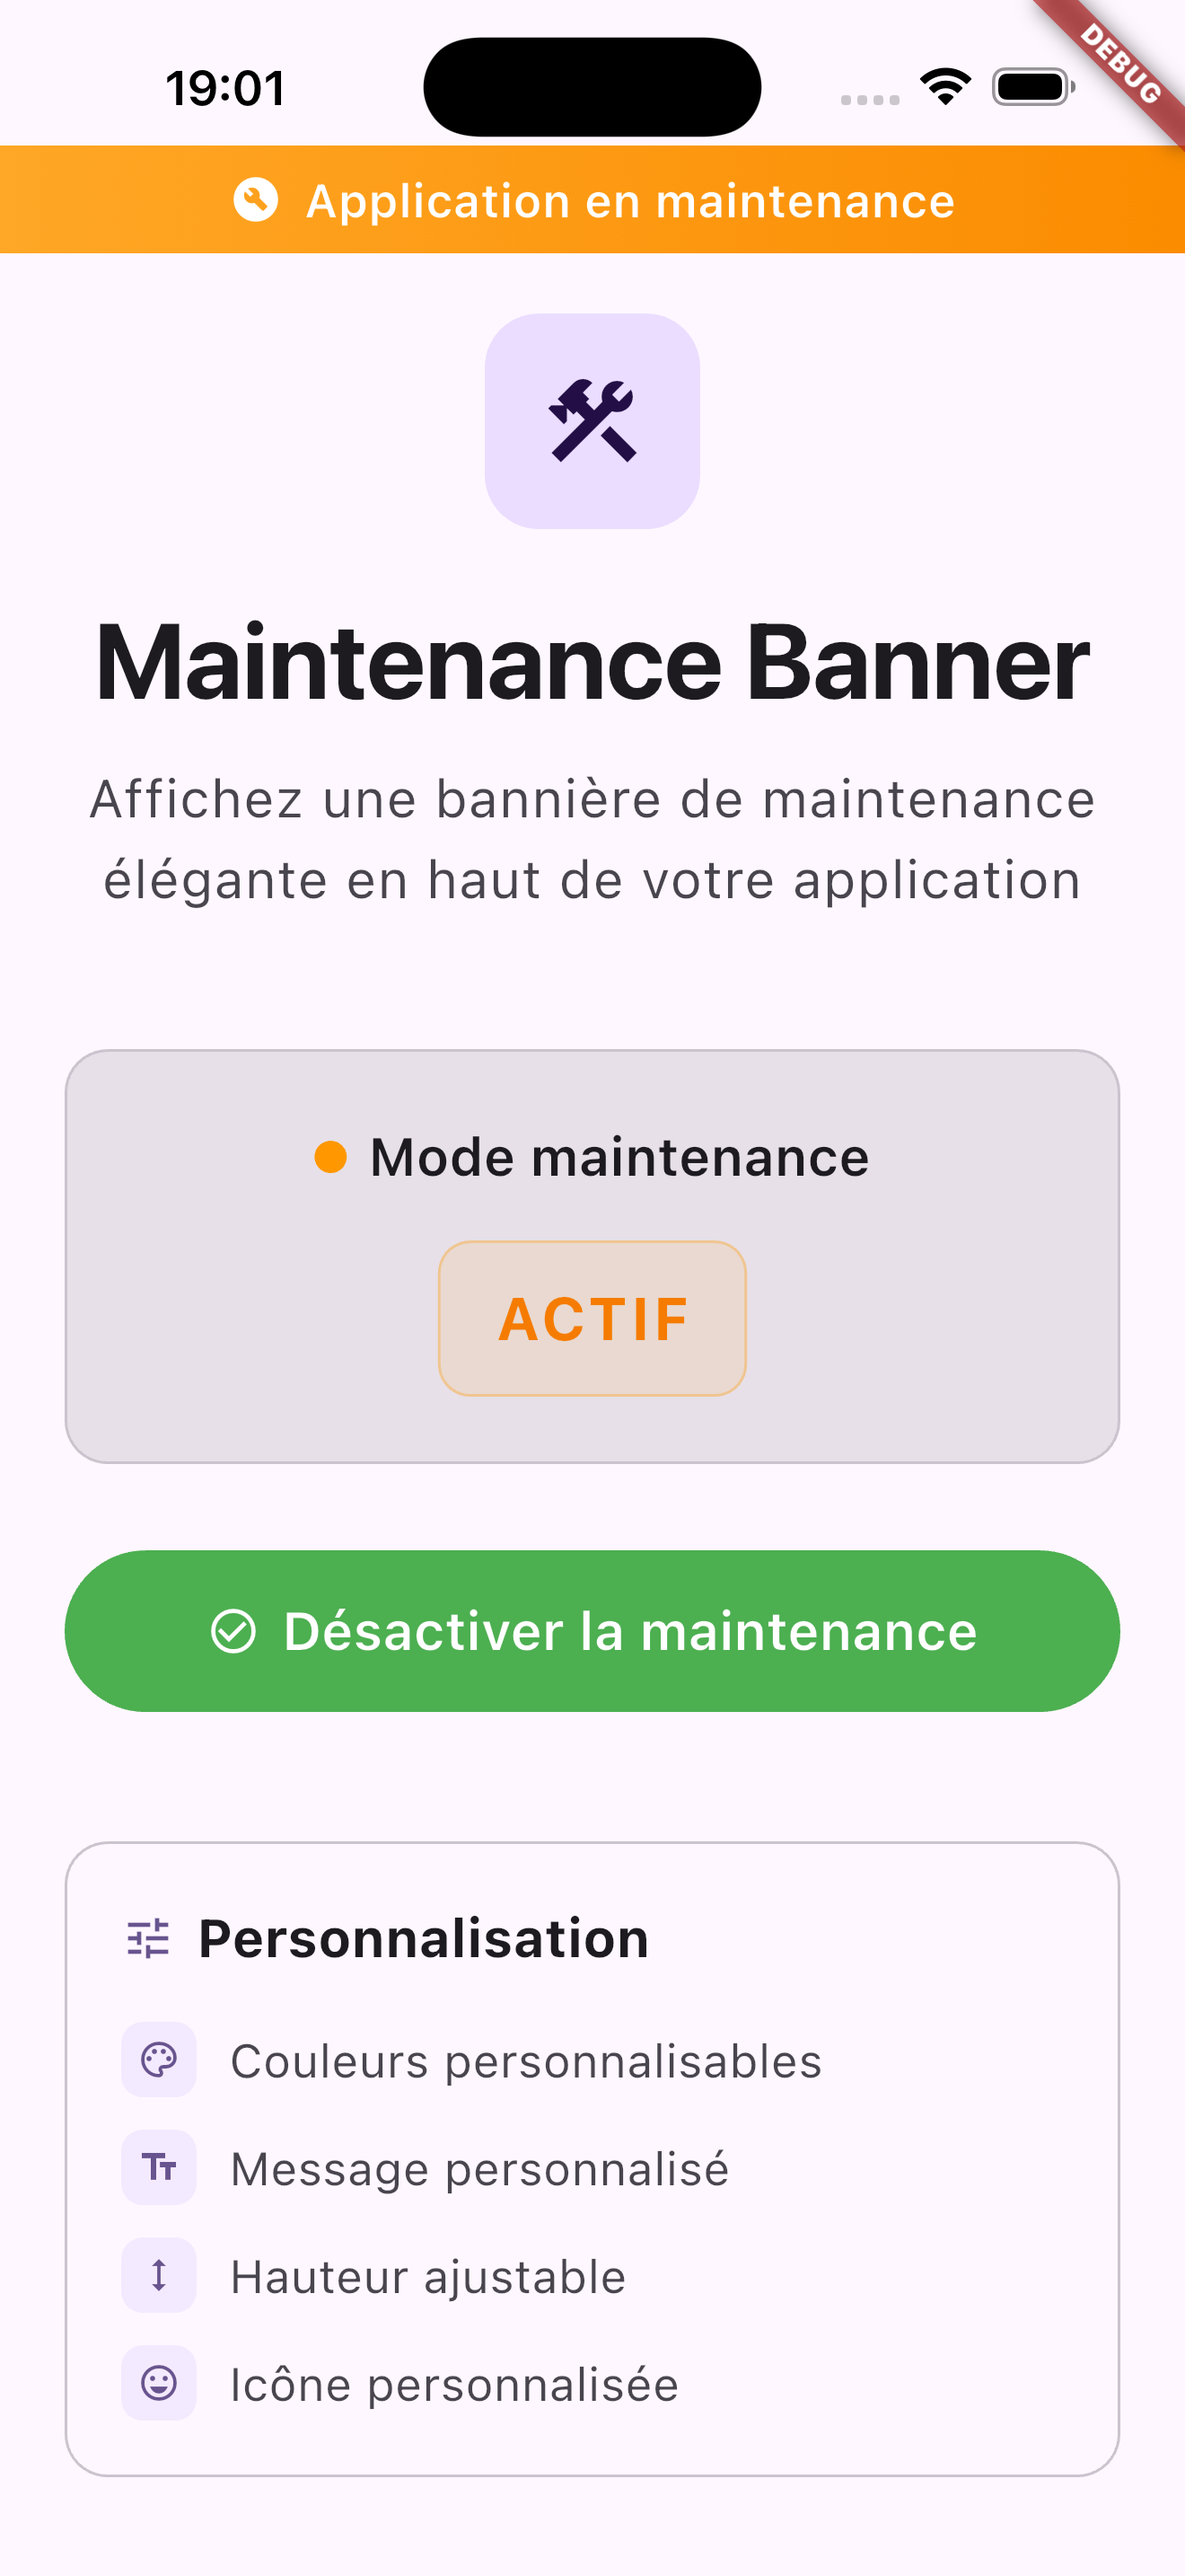
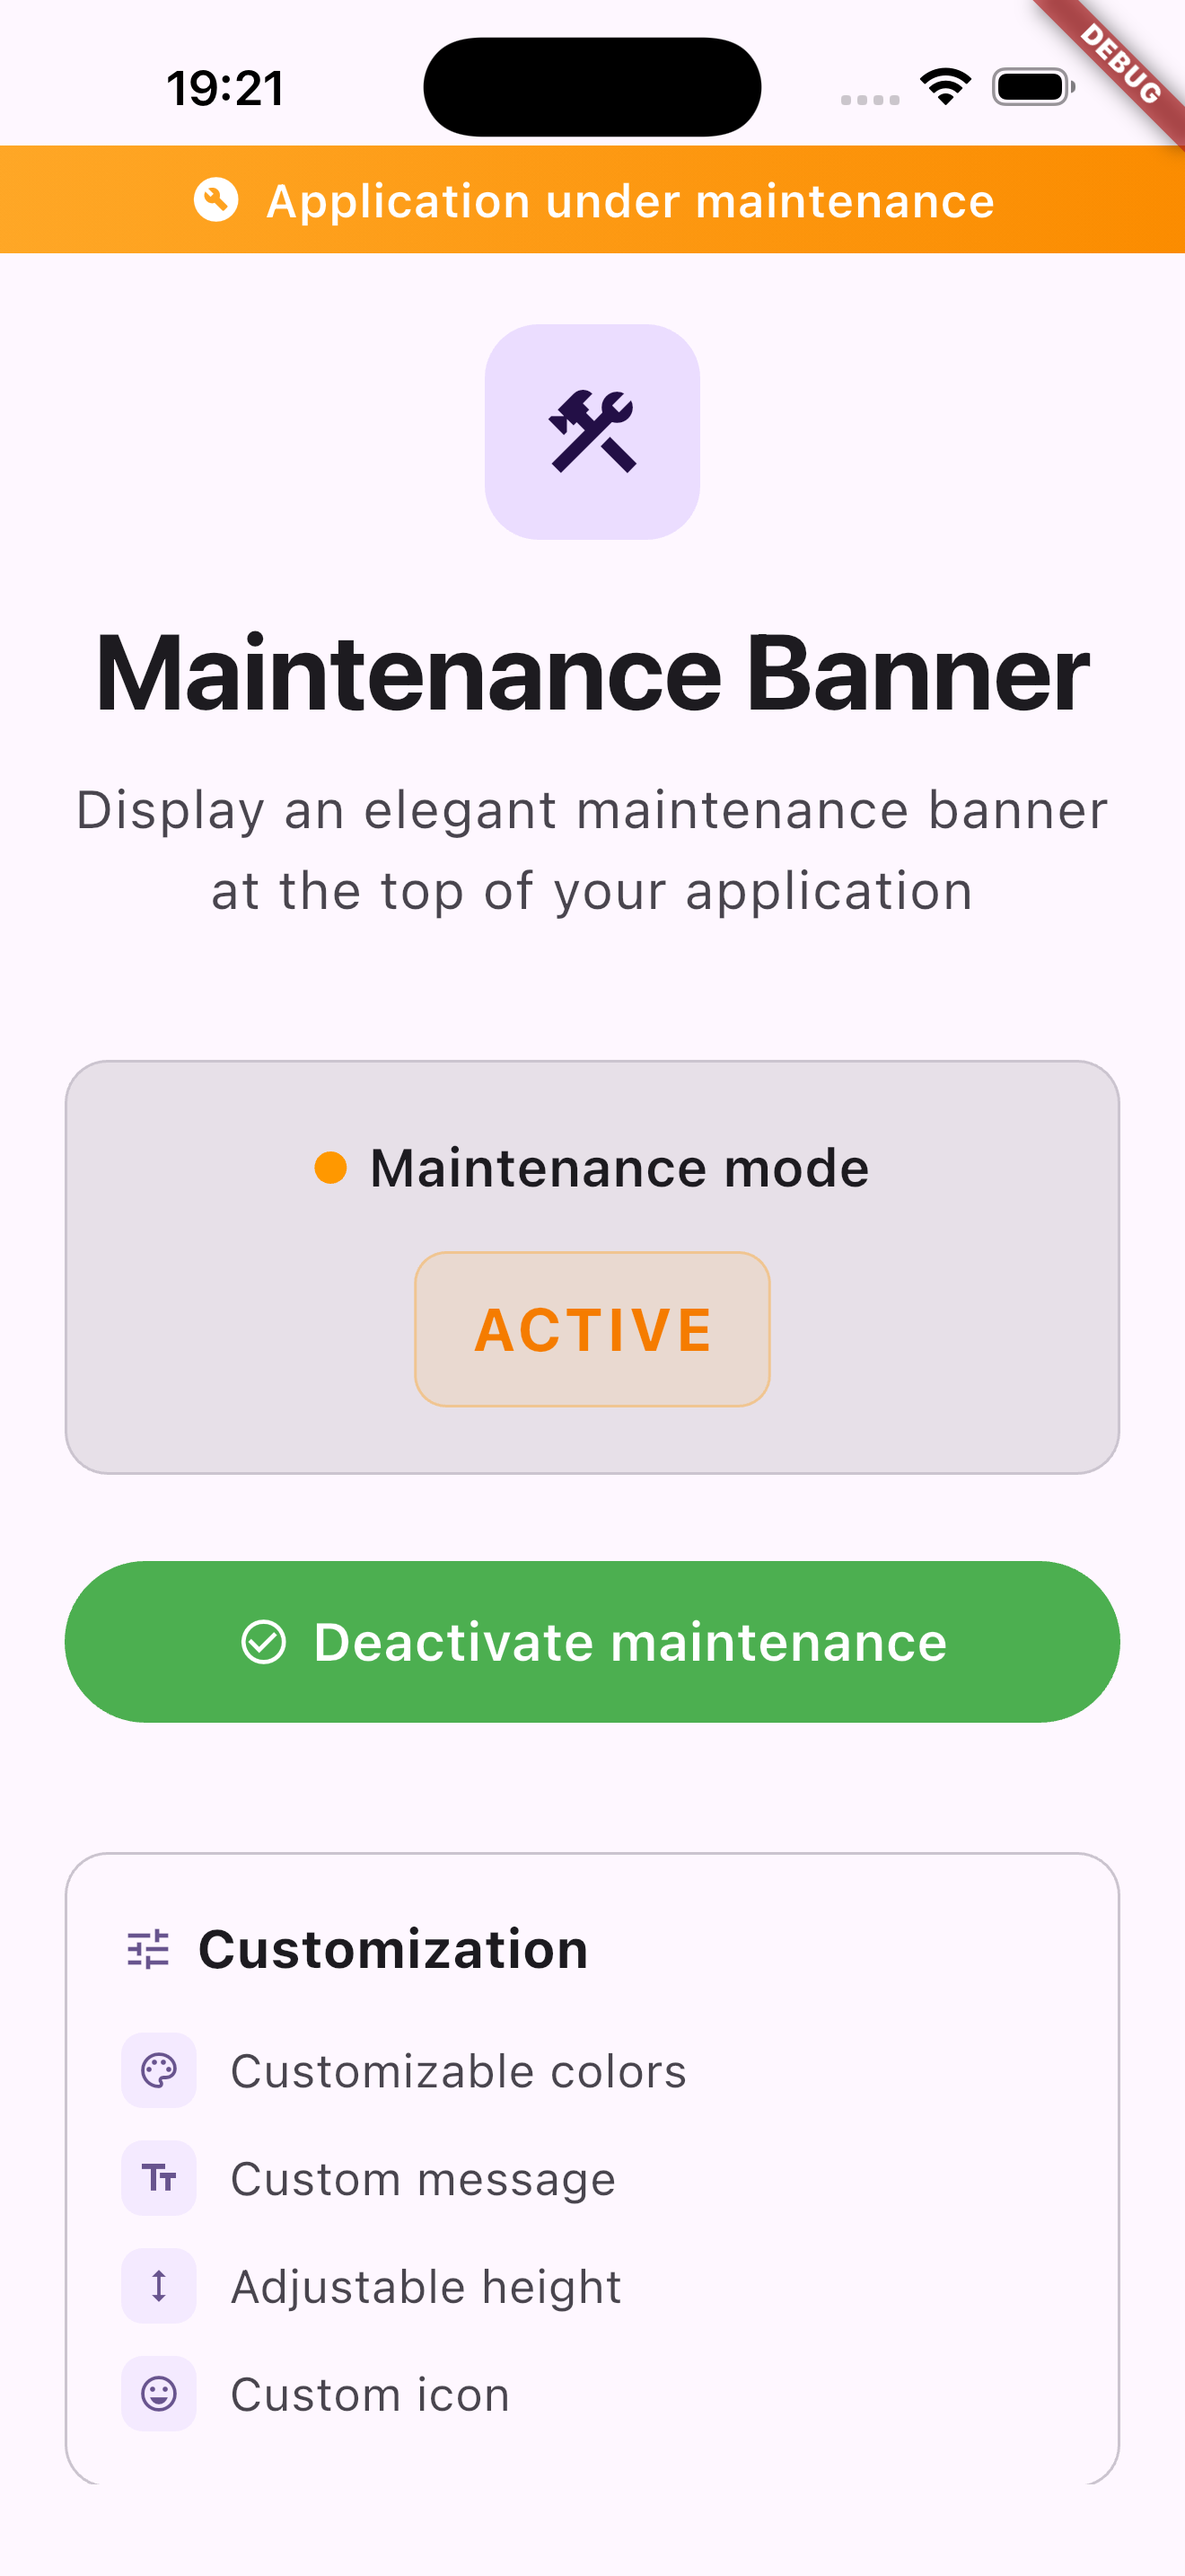
Translate all content to English and update documentation

diff --git a/example/lib/home_page.dart b/example/lib/home_page.dart
@@ -49,7 +49,7 @@ class _HomePageState extends State<HomePage> {
                   ),
                   const SizedBox(height: 12),
                   Text(
-                    'Affichez une bannière de maintenance élégante en haut de votre application',
+                    'Display an elegant maintenance banner at the top of your application',
                     textAlign: TextAlign.center,
                     style: theme.textTheme.bodyLarge?.copyWith(
                       color: colorScheme.onSurfaceVariant,
@@ -87,7 +87,7 @@ class _HomePageState extends State<HomePage> {
                         ),
                         const SizedBox(width: 8),
                         Text(
-                          'Mode maintenance',
+                          'Maintenance mode',
                           style: theme.textTheme.titleMedium?.copyWith(
                             fontWeight: FontWeight.w600,
                           ),
@@ -112,7 +112,7 @@ class _HomePageState extends State<HomePage> {
                         ),
                       ),
                       child: Text(
-                        isUnderMaintenance ? 'ACTIF' : 'INACTIF',
+                        isUnderMaintenance ? 'ACTIVE' : 'INACTIVE',
                         style: TextStyle(
                           fontSize: 18,
                           fontWeight: FontWeight.bold,
@@ -155,8 +155,8 @@ class _HomePageState extends State<HomePage> {
                     const SizedBox(width: 8),
                     Text(
                       isUnderMaintenance
-                          ? 'Désactiver la maintenance'
-                          : 'Activer la maintenance',
+                          ? 'Deactivate maintenance'
+                          : 'Activate maintenance',
                       style: const TextStyle(
                         fontSize: 16,
                         fontWeight: FontWeight.w600,
@@ -189,7 +189,7 @@ class _HomePageState extends State<HomePage> {
                         ),
                         const SizedBox(width: 8),
                         Text(
-                          'Personnalisation',
+                          'Customization',
                           style: theme.textTheme.titleMedium?.copyWith(
                             fontWeight: FontWeight.bold,
                           ),
@@ -200,28 +200,28 @@ class _HomePageState extends State<HomePage> {
                     _buildFeatureItem(
                       context,
                       Icons.palette_outlined,
-                      'Couleurs personnalisables',
+                      'Customizable colors',
                       colorScheme,
                     ),
                     const SizedBox(height: 12),
                     _buildFeatureItem(
                       context,
                       Icons.text_fields,
-                      'Message personnalisé',
+                      'Custom message',
                       colorScheme,
                     ),
                     const SizedBox(height: 12),
                     _buildFeatureItem(
                       context,
                       Icons.height,
-                      'Hauteur ajustable',
+                      'Adjustable height',
                       colorScheme,
                     ),
                     const SizedBox(height: 12),
                     _buildFeatureItem(
                       context,
                       Icons.emoji_emotions_outlined,
-                      'Icône personnalisée',
+                      'Custom icon',
                       colorScheme,
                     ),
                   ],

diff --git a/example/lib/main.dart b/example/lib/main.dart
@@ -50,7 +50,7 @@ class _MyAppState extends State<MyApp> {
                 ),
                 SizedBox(width: 8),
                 Text(
-                  'Application en maintenance',
+                  'Application under maintenance',
                   style: TextStyle(
                     color: Colors.white,
                     fontWeight: FontWeight.w600,

diff --git a/doc/INSTRUCTIONS.md b/doc/INSTRUCTIONS.md
@@ -1,16 +1,15 @@
-# Instructions pour ajouter la capture d'écran
+# Instructions for Adding Screenshot
 
-Pour que l'image s'affiche sur pub.dev et dans le README :
+To display the image on pub.dev and in the README:
 
-1. Placez votre capture d'écran dans ce dossier avec le nom `screenshot.png`
-2. L'image sera automatiquement référencée dans le README.md principal
+1. Place your screenshot in this folder with the name `screenshot.png`
+2. The image will be automatically referenced in the main README.md
 
-**Recommandations :**
-- Format : PNG ou JPG
-- Nom du fichier : `screenshot.png` (ou `screenshot.jpg`)
-- Taille recommandée : Largeur d'environ 400-800px pour une bonne qualité sur pub.dev
+**Recommendations:**
+- Format: PNG or JPG
+- File name: `screenshot.png` (or `screenshot.jpg`)
+- Recommended size: Width of approximately 400-800px for good quality on pub.dev
 
-L'image sera affichée :
-- En haut du README (juste après la description)
-- Dans la section "Example App"
-
+The image will be displayed:
+- At the top of the README (right after the description)
+- In the "Example App" section

diff --git a/README.md b/README.md
@@ -47,7 +47,7 @@ class MyApp extends StatelessWidget {
           height: 32,
           color: Colors.orange,
           child: const Center(
-            child: Text('Application en maintenance'),
+            child: Text('Application under maintenance'),
           ),
         ),
         child: HomePage(),
@@ -78,7 +78,7 @@ class _MyAppState extends State<MyApp> {
           color: Colors.orange,
           child: const Center(
             child: Text(
-              'Application en maintenance',
+              'Application under maintenance',
               style: TextStyle(color: Colors.white),
             ),
           ),

diff --git a/example/README.md b/example/README.md
@@ -23,7 +23,7 @@ This is an example application demonstrating how to use the `maintenance_banner`
 - Basic usage of `MaintenanceWrapper`
 - Toggle maintenance mode on/off
 - Customizable banner appearance
-- Reactive updates using GetX
+- State management with setState
 
 ## Usage
 
